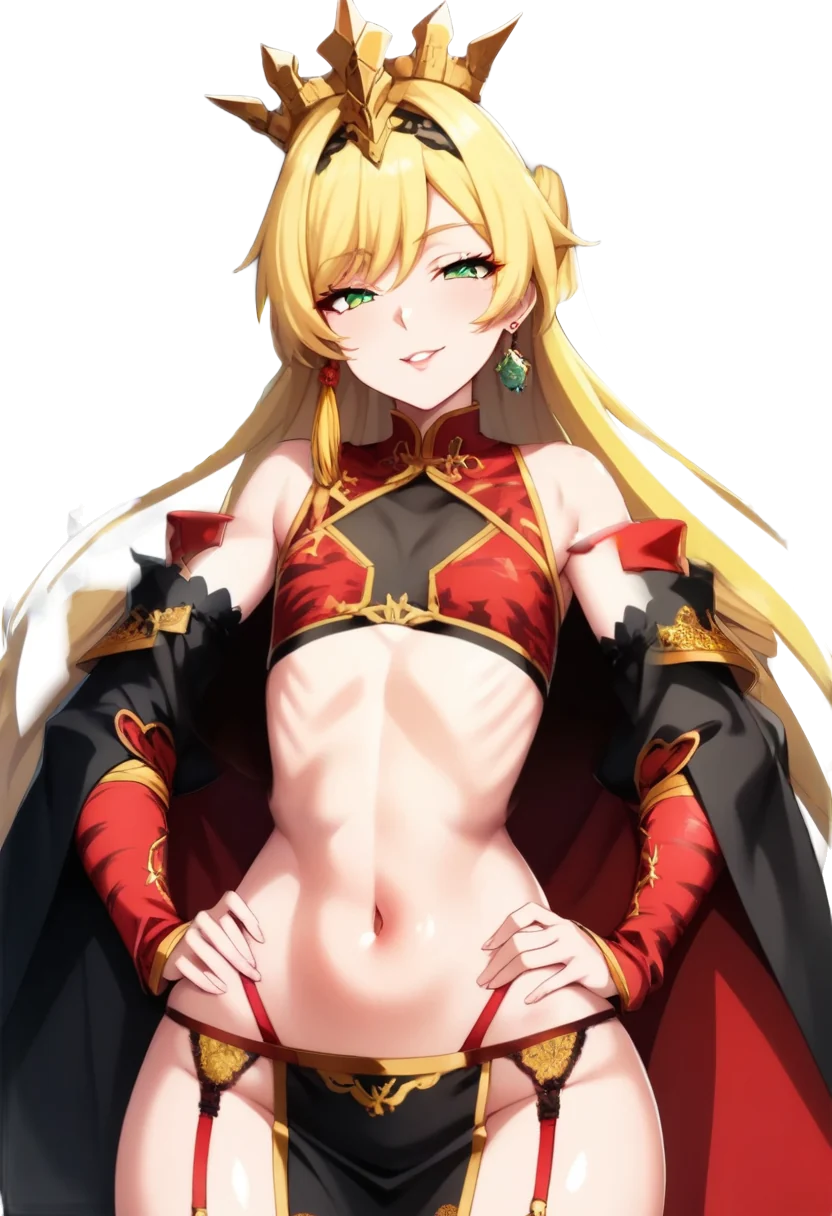
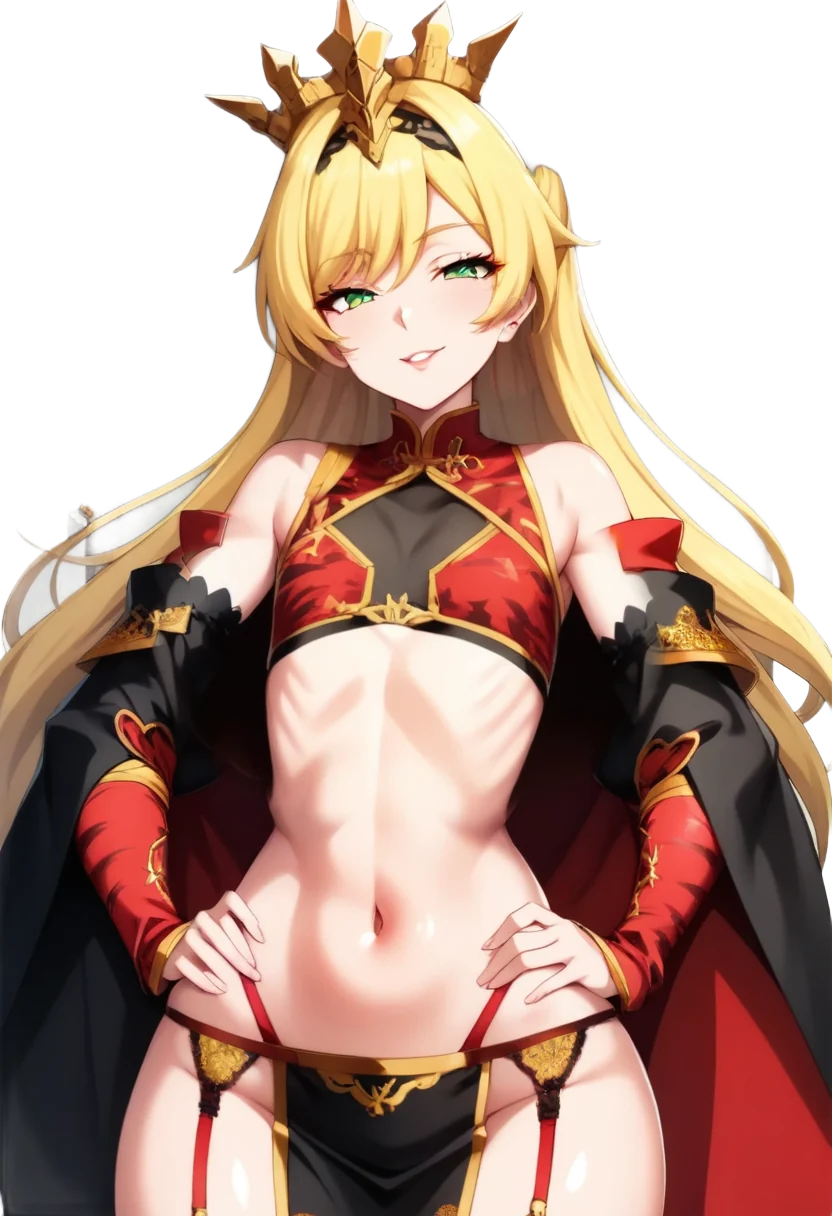
Layered prototype: rigid chest motion, remove earring ghost, freeze front-hair layer
Claude-Session: https://claude.ai/code/session_017CQhY3FLdH51zJppLF11JD

Changed region(s): [[0.5938, 0.2188, 1.0, 0.7188], [0.0, 0.25, 0.4375, 0.625]]

diff --git a/game/public/js/layered.js b/game/public/js/layered.js
@@ -1,4 +1,4 @@
-// 分層立繪原型（孫權 UR）。每個部位一張圖、各自動：身體呼吸、胸部彈簧、前髮擺動、耳環擺動、眨眼。
+// 分層立繪原型（孫權 UR）。每個部位一張圖、各自動：身體呼吸、胸部彈簧、耳環擺動、眨眼（前髮層美術拆得不夠乾淨，先不動）。
 // 用法：SG.Layered.mount(容器, "sunquan_ur")。之後 SSR／UR 照同一套圖層規格就能套用。
 (function (SG) {
   var RIG = {
@@ -10,16 +10,15 @@
     },
   };
   var VS = "attribute vec2 a;varying vec2 v;uniform int m;uniform float br,hs,t;uniform vec4 e0,e1;uniform vec2 o0,o1,p0,p1;uniform vec2 ang;uniform float asp;" +
-    "vec2 ch(vec2 p,vec4 e,vec2 o){vec2 d=(a-e.xy)/e.zw;float w=(1.-smoothstep(.55,1.2,length(d)))*smoothstep(-1.15,.1,d.y);return o*w;}" +
+    "vec2 ch(){vec2 dl=(a-e0.xy)/e0.zw,dr=(a-e1.xy)/e1.zw;float sd=smoothstep(e0.x+e0.z*.35,e1.x-e1.z*.35,a.x);vec2 o=mix(o0,o1,sd);float top=smoothstep(-1.2,.15,mix(dl.y,dr.y,sd));float sf=(1.-smoothstep(1.,1.55,-dl.x))*(1.-smoothstep(1.,1.55,dr.x));return o*top*sf;}" +
     "vec2 rot(vec2 p,vec2 c,float g){vec2 d=(p-c)*vec2(1.,asp);float s=sin(g),k=cos(g);d=vec2(d.x*k-d.y*s,d.x*s+d.y*k);return c+d/vec2(1.,asp);}" +
     "void main(){v=a;vec2 p=a;" +
-    "if(m==1){p+=ch(p,e0,o0)+ch(p,e1,o1);}" +
-    "if(m==2){float k=clamp((a.y-hs)/.5,0.,1.);p.x+=(o0.x+sign(a.x-.5)*o0.y)*k*k+.0035*sin(t*1.3+a.y*9.)*k;}" +
-    "if(m==3){p=a.x<.5?rot(p,p0,ang.x):rot(p,p1,ang.y);}" +
+    "if(m==1){p+=ch();}" +
+        "if(m==3){p=a.x<.5?rot(p,p0,ang.x):rot(p,p1,ang.y);}" +
     "p.y-=br*smoothstep(.95,.5,a.y);p.x+=(p.x-.5)*br*.6*smoothstep(.8,.5,a.y)*smoothstep(.2,.5,a.y);" +
     "gl_Position=vec4(p.x*2.-1.,1.-p.y*2.,0.,1.);}";
   var FS = "precision mediump float;varying vec2 v;uniform sampler2D s;uniform float al;void main(){vec4 c=texture2D(s,v);gl_FragColor=vec4(c.rgb*c.a,c.a)*al;}";
-  var NAMES = ["base", "chest", "hair", "acc", "blink"];
+  var NAMES = ["base", "chest", "acc", "blink"];
 
   function mount(box, id, opt) {
     var R = RIG[id]; if (!R) return null; opt = opt || {};
@@ -47,7 +46,7 @@
     });
 
     // 動態狀態
-    var P = { K: 42, C: 3.4, BREATH: 0.0035, BT: 3.8, LIFT: 0.010, MAX: 0.05, amp: opt.amp == null ? 1 : opt.amp };
+    var P = { K: 42, C: 3.4, BREATH: 0.0035, BT: 3.8, LIFT: 0.010, MAX: 0.032, amp: opt.amp == null ? 1 : opt.amp };
     var c = [{ x: 0, y: 0, vx: 0, vy: 0 }, { x: 0, y: 0, vx: 0, vy: 0 }], hair = { x: 0, v: 0 }, ear = [{ a: 0, v: 0 }, { a: 0, v: 0 }];
     var grab = -1, gx = 0, gy = 0, lastX = 0, lastT = 0, blink = 0, nextBlink = 2 + Math.random() * 3, t0 = performance.now(), prev = t0, run = true;
     function uv(e) { var r = cv.getBoundingClientRect(); return [(e.clientX - r.left) / r.width, (e.clientY - r.top) / r.height]; }
@@ -60,7 +59,7 @@
     });
     cv.addEventListener("pointermove", function (e) {
       var p = uv(e), now = performance.now(), vx = (p[0] - lastX) / Math.max(8, now - lastT) * 1000; lastX = p[0]; lastT = now;
-      if (grab >= 0) { var s = c[grab], lim = P.MAX * P.amp; s.x = Math.max(-lim, Math.min(lim, (p[0] - gx) * 0.6)); s.y = Math.max(-lim, Math.min(lim, (p[1] - gy) * 0.6)); s.vx = s.vy = 0; var o = c[1 - grab]; o.vx += (s.x - o.x) * 0.6; }
+      if (grab >= 0) { var s = c[grab], lim = P.MAX * P.amp; s.x = Math.max(-lim, Math.min(lim, (p[0] - gx) * 0.6)); s.y = Math.max(-lim * 0.8, Math.min(lim, (p[1] - gy) * 0.6)); s.vx = s.vy = 0; var o = c[1 - grab]; o.vx += (s.x - o.x) * 0.6; }
       else if (e.buttons || e.pointerType === "touch") { hair.v += vx * 0.004; ear[0].v += vx * 0.25; ear[1].v += vx * 0.25; c[0].vx += vx * 0.01 * P.amp; c[1].vx += vx * 0.01 * P.amp; }
     });
     function up() { grab = -1; } cv.addEventListener("pointerup", up); cv.addEventListener("pointercancel", up);
@@ -86,8 +85,7 @@
       gl.uniform2f(U.o0, c[0].x, c[0].y); gl.uniform2f(U.o1, c[1].x, c[1].y);
       draw("base", 0, 1); if (bl > 0.02) draw("blink", 0, bl);
       draw("chest", 1, 1);
-      gl.uniform2f(U.o0, hair.x, 0.004 * Math.sin(t * 0.8)); draw("hair", 2, 1);
-      gl.uniform2f(U.ang, ear[0].a, ear[1].a); draw("acc", 3, 1);
+            gl.uniform2f(U.ang, ear[0].a, ear[1].a); draw("acc", 3, 1);
     }
     requestAnimationFrame(frame);
     return { canvas: cv, params: P, stop: function () { run = false; }, poke: function () { c[0].vy -= 0.3; c[1].vy -= 0.26; hair.v += 0.08; ear[0].v += 3; ear[1].v -= 3; }, state: function () { return { c: c, hair: hair, ear: ear }; } };

diff --git a/game/public/tool/sunquan.html b/game/public/tool/sunquan.html
@@ -11,8 +11,8 @@ html,body{margin:0;height:100%;background:#07060a;color:#f0e8d8;font-family:"Not
 button{background:#e05858;color:#fff;border:1px solid #d4a853;border-radius:6px;padding:6px 12px;font:inherit}
 input[type=range]{flex:1}
 </style></head><body><div id="wrap"><div id="stage"></div>
-<div id="bar"><b>孫權 UR｜分層立繪試作</b>　胸部、前髮、耳環、眼睛各一層，分開動。<br>可以按住胸部拖、點身體、左右滑。
-<div class="row">幅度<input id="amp" type="range" min="0.3" max="2" step="0.1" value="1"><span id="av">1.0</span><button id="poke">晃一下</button></div></div></div>
+<div id="bar"><b>孫權 UR｜分層立繪試作</b>　胸部、耳環、眼睛各一層，分開動。<br>可以按住胸部拖、點身體、左右滑。
+<div class="row">幅度<input id="amp" type="range" min="0.3" max="1.5" step="0.1" value="1"><span id="av">1.0</span><button id="poke">晃一下</button></div></div></div>
 <script src="../js/layered.js"></script>
 <script>
 (function(){var base=document.createElement("base");})();
